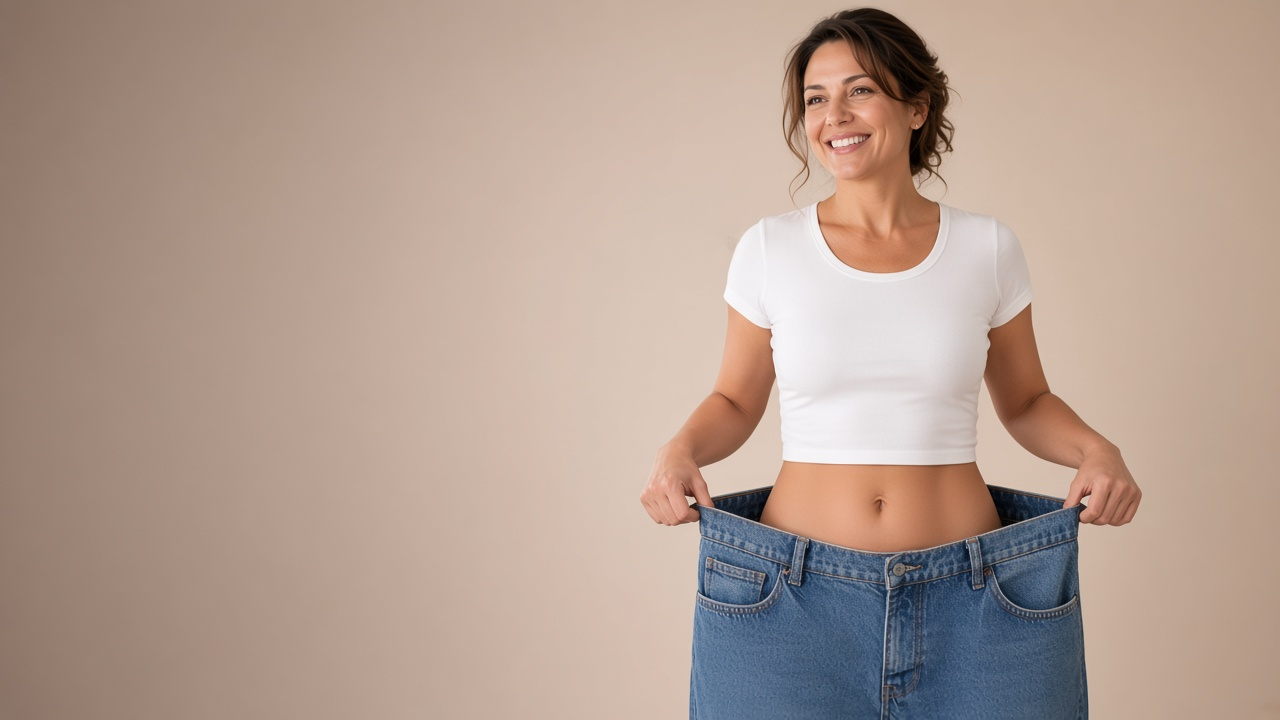
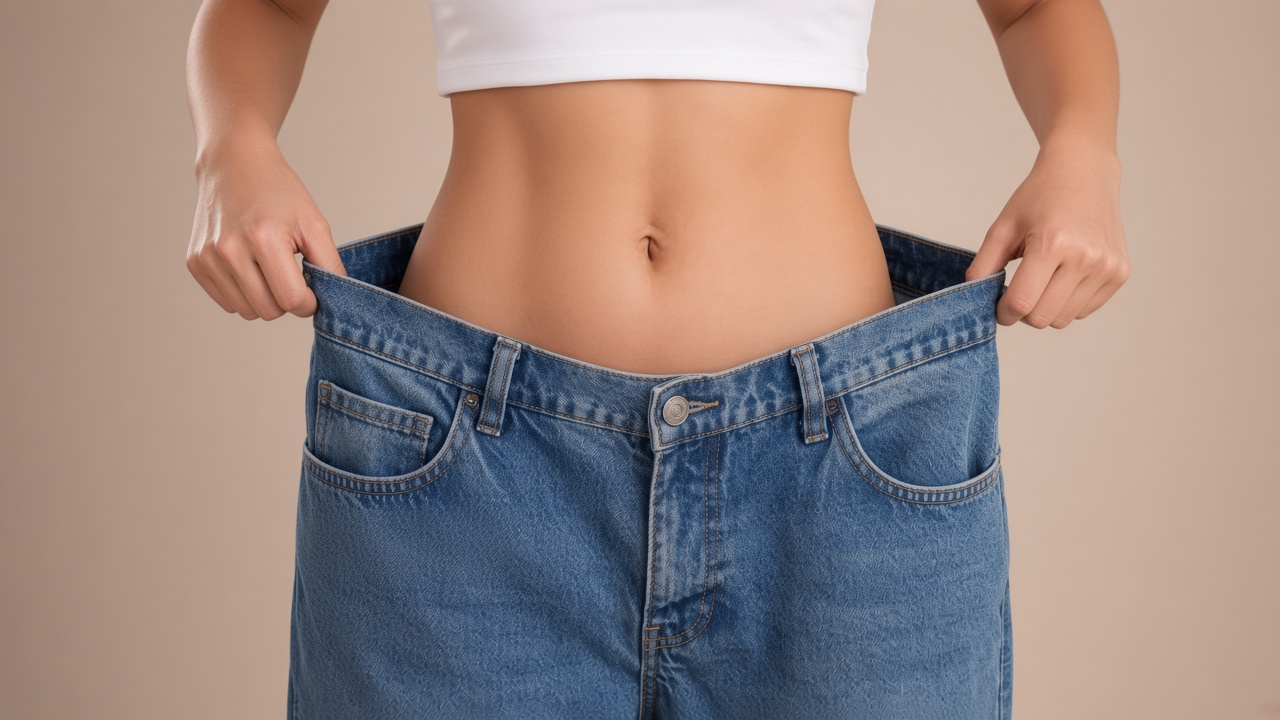
Center and tighten the fit-story crop on the waist only.
Replace the head-to-waist frame with a centered midsection cut so the loose jeans waistband fills the banner.

diff --git a/src/app/globals.css b/src/app/globals.css
@@ -10377,24 +10377,26 @@ img[data-nimg="fill"] {
   justify-content: center;
 }
 
-/* Home fit story — full-bleed baggy jeans waist moment */
+/* Home fit story — full-bleed centered waist crop */
 .rv-fit-story {
   padding: 0;
   margin: 0;
-  background: #d8cfc4;
+  background: #c4b8a8;
   overflow: hidden;
 }
 
 .rv-fit-story__bleed {
   position: relative;
   width: 100%;
-  min-height: clamp(28rem, 72vw, 40rem);
+  min-height: clamp(22rem, 48vw, 32rem);
   isolation: isolate;
 }
 
 .rv-fit-story__img {
   object-fit: cover;
-  object-position: 68% 18%;
+  object-position: center center;
+  transform: scale(1.12);
+  transform-origin: center center;
 }
 
 .rv-fit-story__shade {
@@ -10405,10 +10407,10 @@ img[data-nimg="fill"] {
   background:
     linear-gradient(
       90deg,
-      rgba(232, 224, 214, 0.92) 0%,
-      rgba(232, 224, 214, 0.72) 26%,
-      rgba(232, 224, 214, 0.22) 48%,
-      transparent 66%
+      rgba(13, 27, 42, 0.78) 0%,
+      rgba(13, 27, 42, 0.55) 28%,
+      rgba(13, 27, 42, 0.18) 52%,
+      transparent 70%
     );
 }
 
@@ -10418,15 +10420,15 @@ img[data-nimg="fill"] {
   display: flex;
   align-items: center;
   min-height: inherit;
-  padding: clamp(2.5rem, 6vw, 4.5rem) 0;
+  padding: clamp(2rem, 5vw, 3.5rem) 0;
 }
 
 .rv-fit-story__copy {
-  max-width: 28rem;
+  max-width: 26rem;
 }
 
 .rv-fit-story__copy .rv-script-eyebrow {
-  color: #0f766e;
+  color: #f0a06a;
 }
 
 .rv-fit-story__copy h2 {
@@ -10434,12 +10436,12 @@ img[data-nimg="fill"] {
   font-size: clamp(1.85rem, 3.6vw, 2.75rem);
   line-height: 1.12;
   letter-spacing: -0.03em;
-  color: var(--primary);
+  color: #fff;
 }
 
 .rv-fit-story__lead {
-  margin: 0 0 0.85rem;
-  color: var(--text-muted);
+  margin: 0 0 1.15rem;
+  color: rgba(255, 255, 255, 0.9);
   font-size: 1.05rem;
   line-height: 1.6;
 }
@@ -10449,7 +10451,7 @@ img[data-nimg="fill"] {
   font-size: 1.05rem;
   font-weight: 800;
   letter-spacing: -0.02em;
-  color: var(--accent);
+  color: #fff;
 }
 
 .rv-fit-story__actions {
@@ -10459,10 +10461,21 @@ img[data-nimg="fill"] {
   margin-bottom: 0.85rem;
 }
 
+.rv-fit-story__actions .rv-script-btn--secondary {
+  background: transparent;
+  color: #fff;
+  border-color: rgba(255, 255, 255, 0.7);
+}
+
+.rv-fit-story__actions .rv-script-btn--secondary:hover {
+  background: rgba(255, 255, 255, 0.12);
+  color: #fff;
+}
+
 .rv-fit-story__note {
   margin: 0;
   font-size: 0.78rem;
-  color: var(--text-muted);
+  color: rgba(255, 255, 255, 0.72);
   max-width: 26rem;
   line-height: 1.45;
 }
@@ -10520,21 +10533,22 @@ img[data-nimg="fill"] {
 
 @media (max-width: 900px) {
   .rv-fit-story__bleed {
-    min-height: clamp(34rem, 145vw, 46rem);
+    min-height: clamp(26rem, 118vw, 36rem);
   }
 
   .rv-fit-story__img {
-    object-position: 70% 12%;
+    object-position: center 42%;
+    transform: scale(1.2);
   }
 
   .rv-fit-story__shade {
     background:
       linear-gradient(
         180deg,
-        rgba(232, 224, 214, 0.94) 0%,
-        rgba(232, 224, 214, 0.78) 30%,
-        rgba(232, 224, 214, 0.28) 52%,
-        transparent 68%
+        rgba(13, 27, 42, 0.82) 0%,
+        rgba(13, 27, 42, 0.55) 36%,
+        rgba(13, 27, 42, 0.2) 58%,
+        transparent 74%
       );
   }
 

diff --git a/src/components/FitStory.tsx b/src/components/FitStory.tsx
@@ -7,7 +7,7 @@ export default function FitStory() {
       <div className="rv-fit-story__bleed">
         <Image
           src="/images/waist-baggy-jeans.jpg"
-          alt="Member from head to waist wearing oversized baggy jeans, showing the loose waistband gap"
+          alt="Centered close crop of oversized baggy jeans at the waist, showing how loose the waistband hangs"
           fill
           sizes="100vw"
           quality={82}
